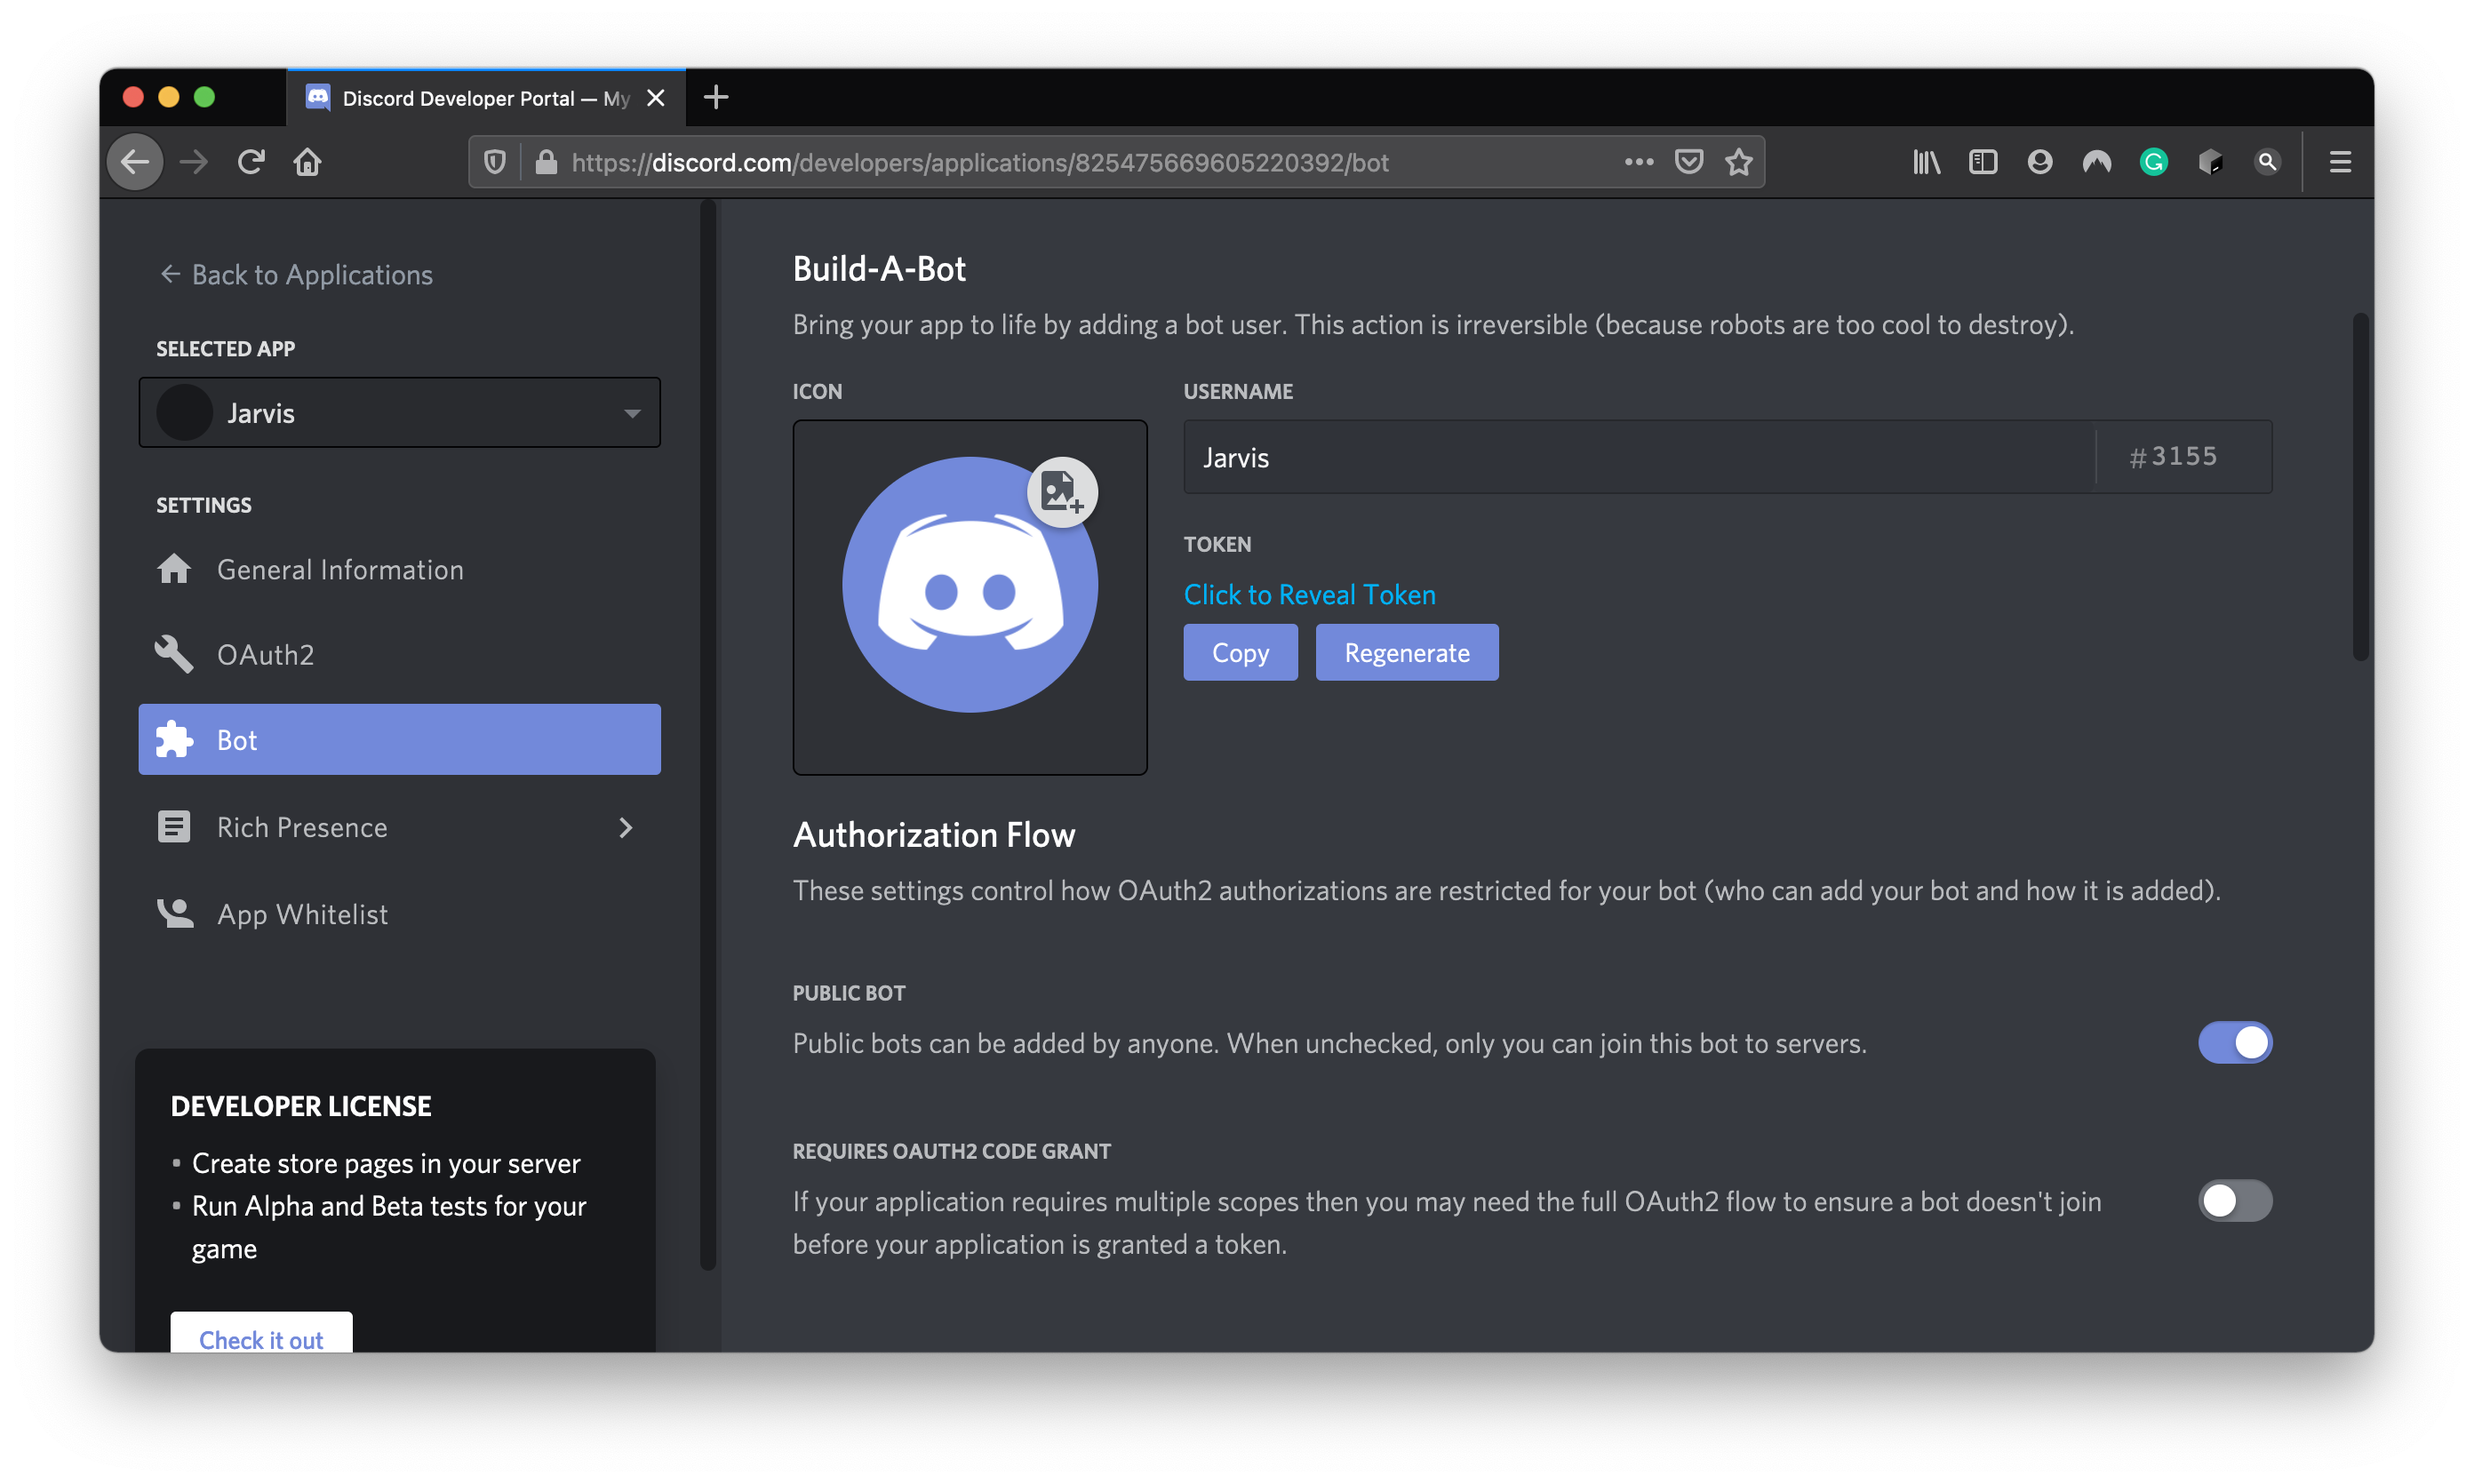
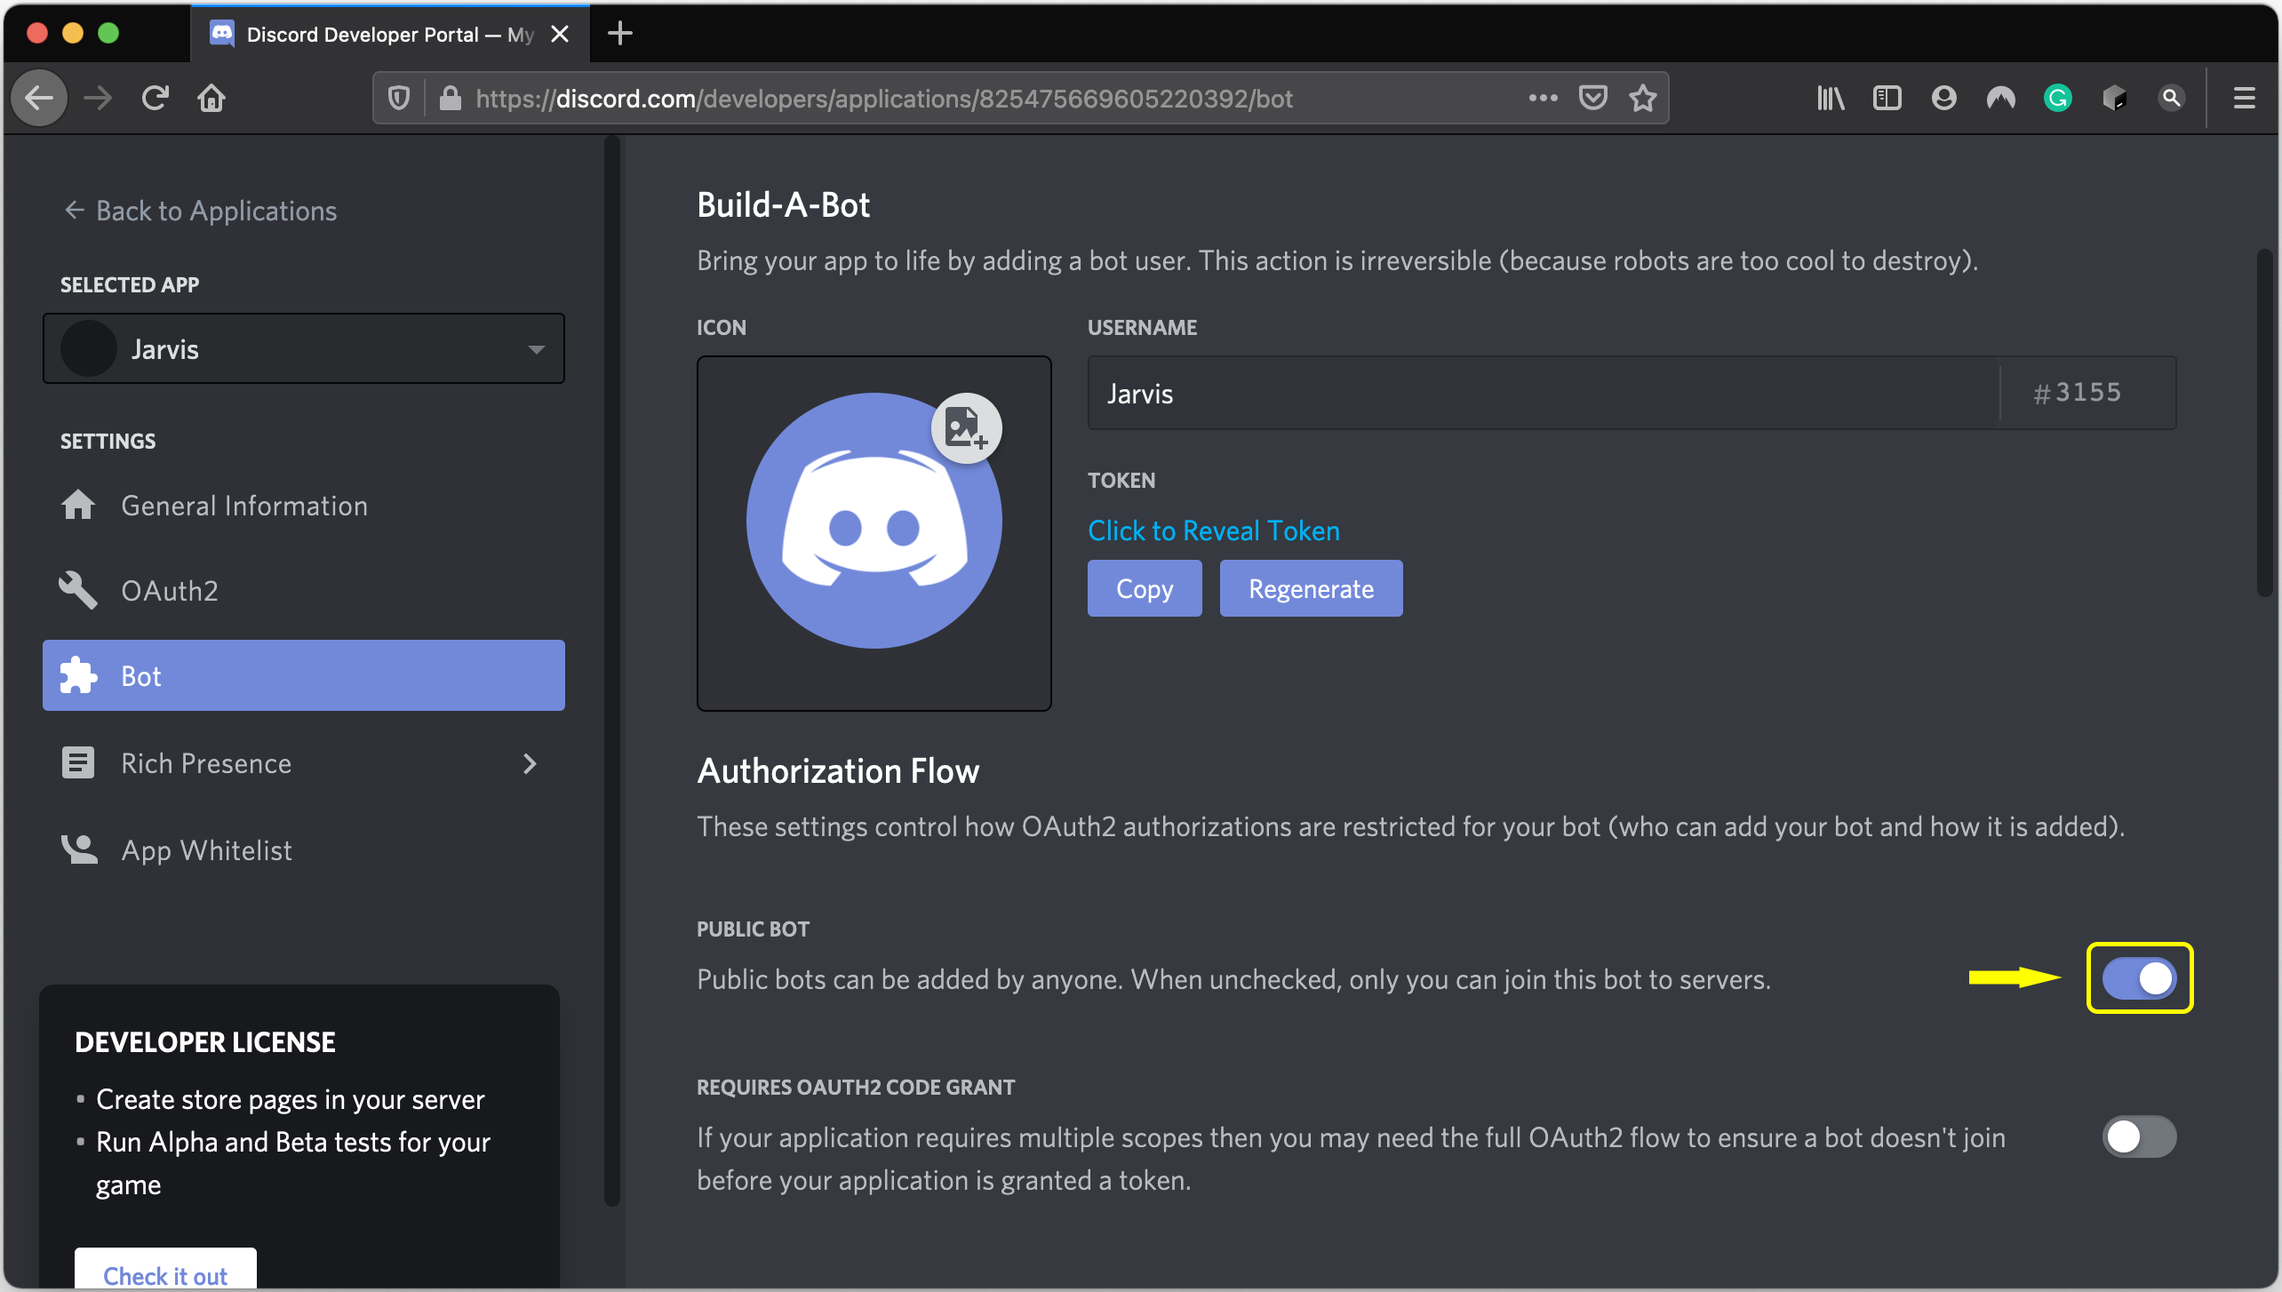
a

diff --git a/README.md b/README.md
@@ -1,13 +1,13 @@
-# Create your own custom Discord Bot
+# Create your own custom Reaction Role Discord Bot
 
 <p align="center">
 <img src="https://discord.com/assets/bb408e0343ddedc0967f246f7e89cebf.svg" height=100 style="vertical-align: bottom"></p>
 
 ## Introduction
 
-If you manage or own a Discord guild with numerous members, you probably use bots to automate common functions such as custom welcome message, reaction roles, YouTube notifications, and much more. Even if you have enough funds, you would probably not want to spend them on having custom bots built for your guild. So, use existing bots? You can but you do not have to unless you do not have programming background. Nevertheless, you can learn to program for free on YouTube anytime. [FreeCodeCamp](https://www.youtube.com/channel/UC8butISFwT-Wl7EV0hUK0BQ) is what I would personally recommend.
+If you manage or own a Discord guild with numerous members, you probably use bots to automate common functions such as custom welcome message, reaction roles, YouTube notifications, and much more. Even if you have enough funds, you would probably not want to spend them on having custom bots built for your guild. So, is the solution to use existing bots? Maybe but you do not have to unless you do not have programming background. Nevertheless, you can learn to program for free on YouTube anytime. [FreeCodeCamp](https://www.youtube.com/channel/UC8butISFwT-Wl7EV0hUK0BQ) is what I would personally recommend.
 
-This tutorial will guide you to program a bot from scratch and add a paid feature for free.
+This tutorial will guide you to program a bot from scratch and add a paid feature, Reaction Roles, for free.
 
 Wondering why you should learn to create a Discord bot?
 * **Custom bot branding**: <br>You can get rid of third-party bots that need you to vote for them to keep using their bot.
@@ -24,7 +24,7 @@ Wondering why you should learn to create a Discord bot?
 
 ## Before you start
 
-Before you start, following are the resources assumed you have gathered before diving into instructions.
+Before you start, following are the resources assumed you have gathered before diving into the instructions.
 
 * **Text Editor**: <br>A text editor of your choice such as [Visual Studio Code](https://code.visualstudio.com/), [Sublime Text 3](https://www.sublimetext.com/), and [Atom](https://atom.io/).
 
@@ -73,37 +73,37 @@ Now, you should be on the `General Information` page on the dashboard.
 
 8. _Optional_: Give your bot an icon to make it more attractive.
 
-9.  Under the `Token`, clink `Copy` to copy the token to be used later.
+9.  Under the `Token`, click `Copy` to copy the token to be used later.
 
 	**CAUTION:** Do not publish this token publicly as people can misuse this token to tamper with your app.
 
 <img src="images/8.png" height=400 class="center">
 
-1.   Go to `OAuth2` from the left pane. Under `Scopes`, check the `bot` scope. 
+10. Go to `OAuth2` from the left pane. Scroll down and select one set of permissions from the following:
+
+	Either
+	
+    * Administrator
+
+	<img src="images/11.png" height=400 class="center">
+	
+	Or
+	
+    * Read Message History
+	
+    * Manage Roles
+	
+    * View Channels
+
+	<img src="images/10.png" height=400 class="center">
+
+11. Scroll up and check the `bot` scope under `Scopes`. This will create an invitation link below the `scopes`. Click on this invitation link to invite the bot to your Discord guild.
 	
 <img src="images/12.png" height=400 class="center">
 
-Then, scroll and select one set of permissions from the following:
-
-Either
-	
-* Administrator
-
-<img src="images/11.png" height=400 class="center">
-	
-Or
-	
-* Read Message History
-	
-* Manage Roles
-	
-* View Channels
-
-<img src="images/10.png" height=400 class="center">
-	
-This will create an invitation link below the `scopes`. Click on this invitation link to invite the bot to your Discord guild.
-
   **Note:** If you want other people to add your bot to their servers, enable the `Public Bot` option.
+
+  <img src="images/13.png" height=400 class="center">
 
 ### B. Setup Development Environment
 
